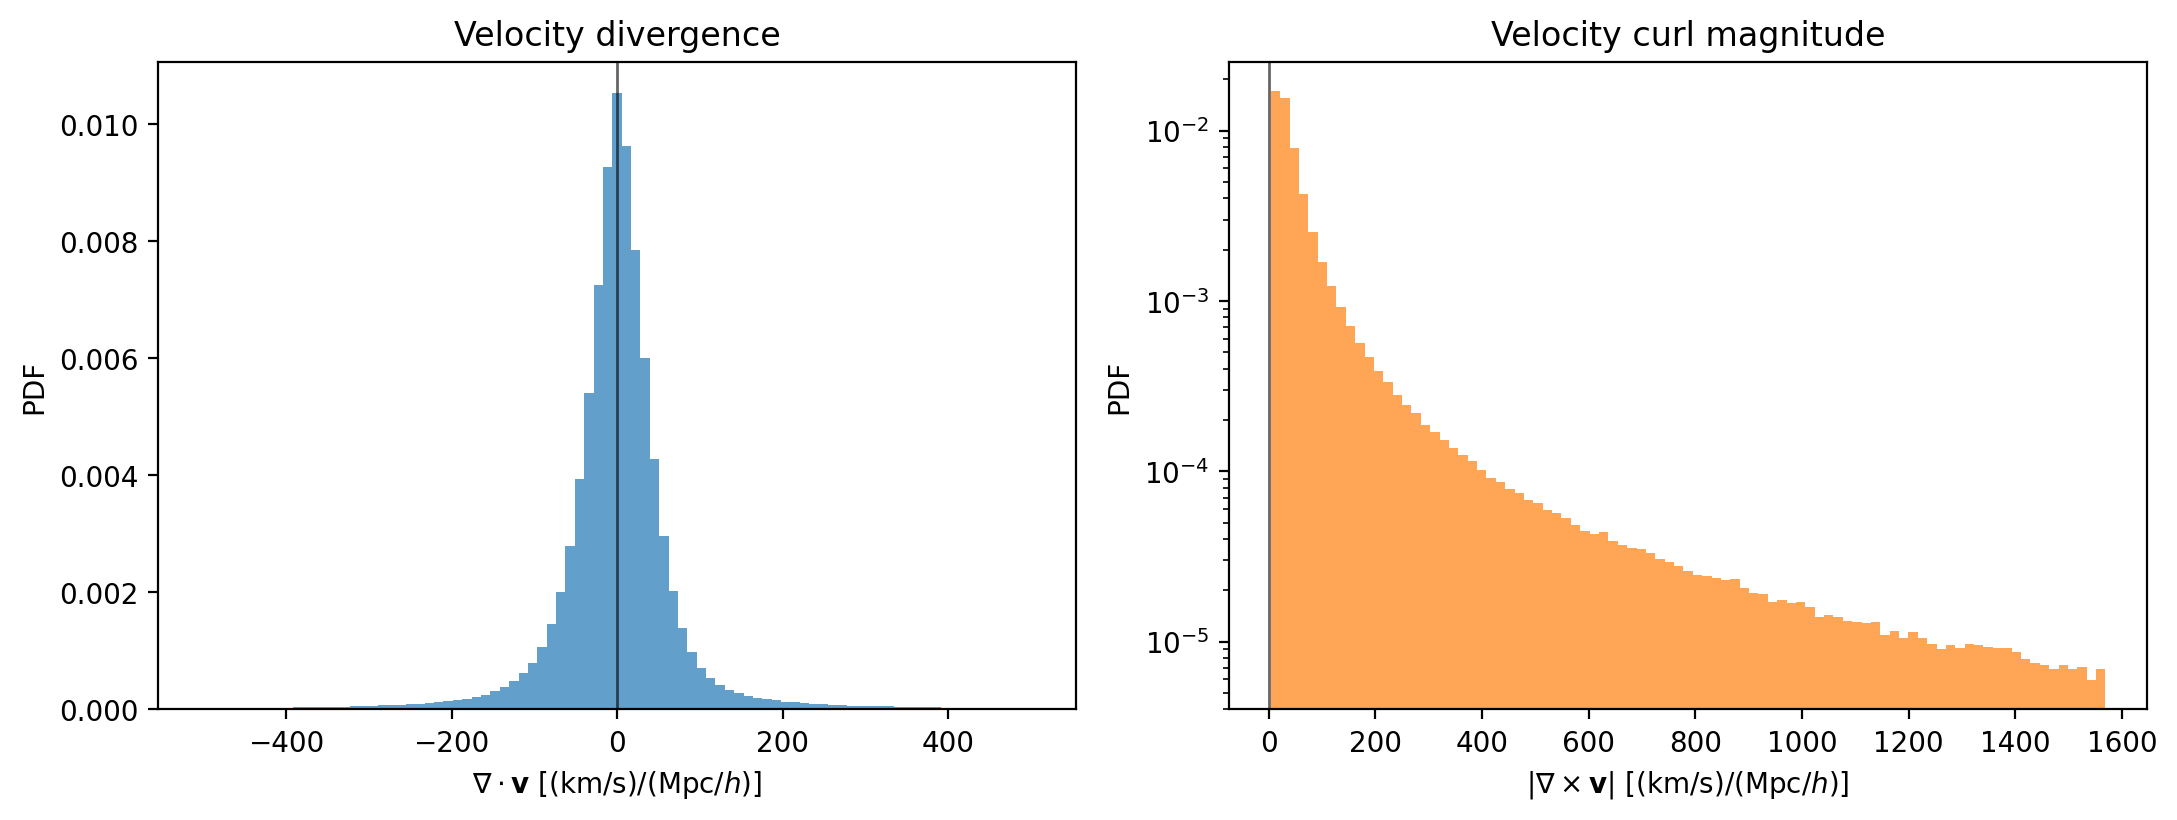
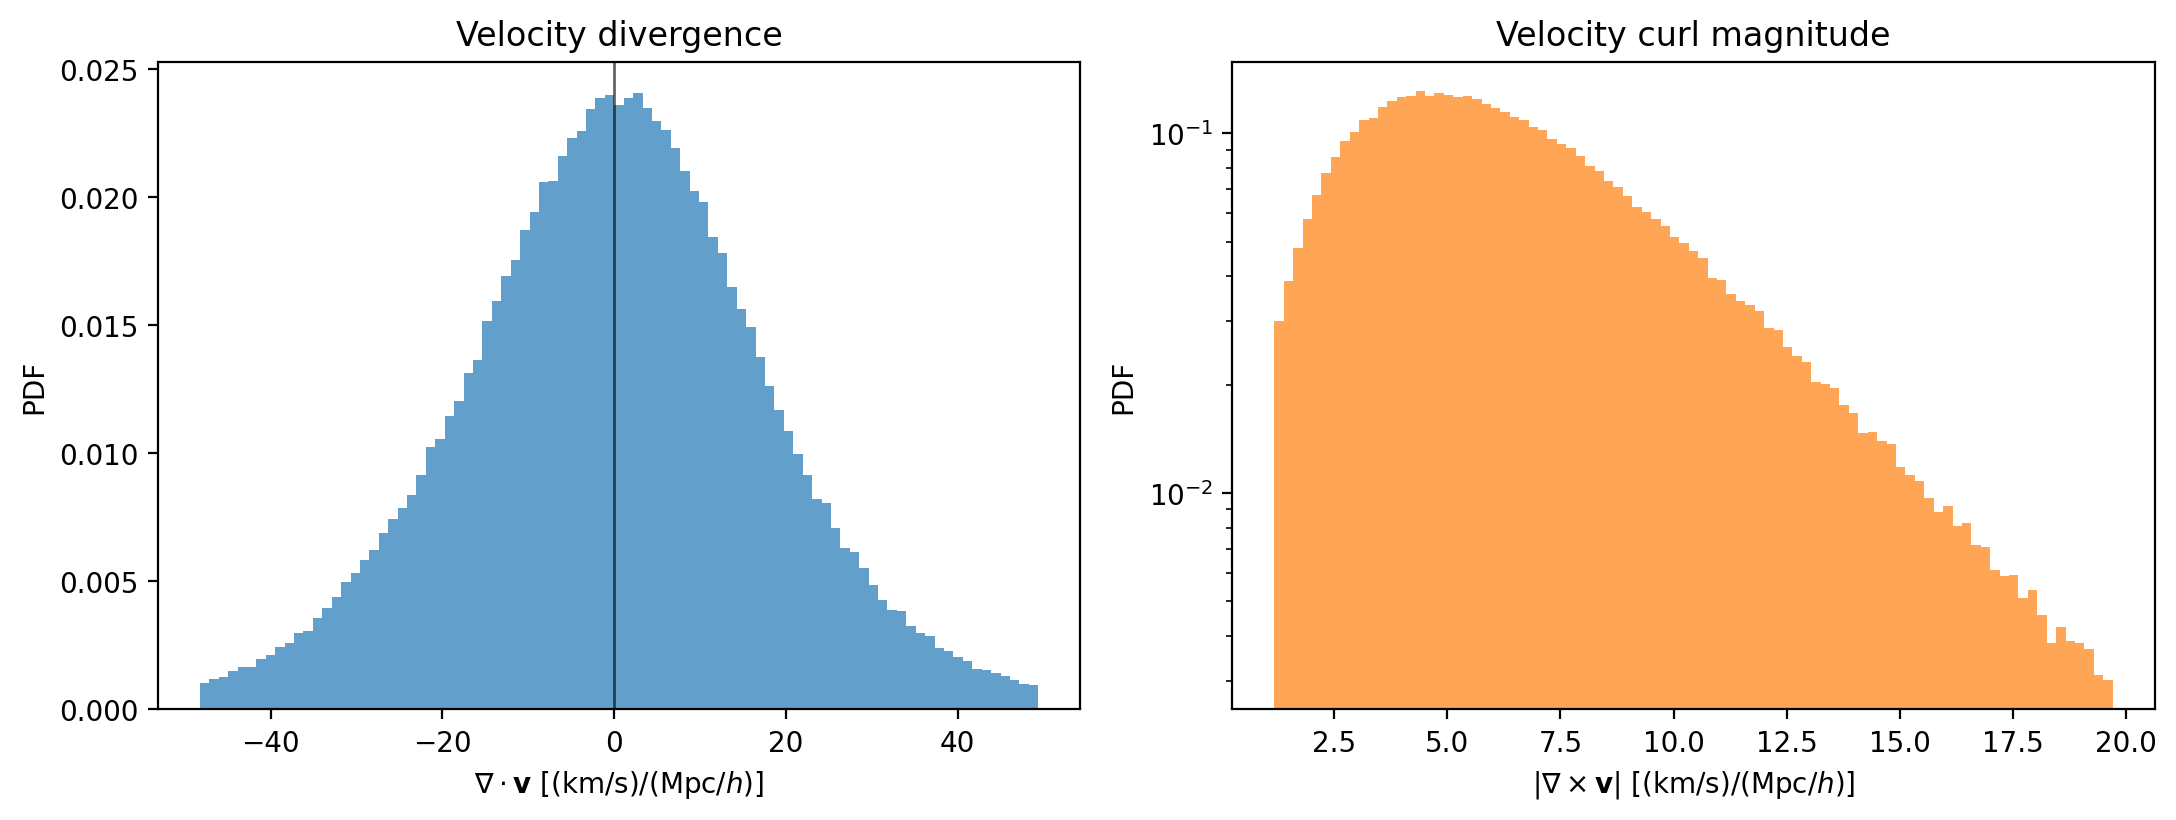
Add weighted velocity divergence slice image to documentation

diff --git a/pyhermes/utils/window_functions.py b/pyhermes/utils/window_functions.py
@@ -278,22 +278,6 @@ def window_function_cylinder_numba(ki, kj, kk, R, H, nx=0.0, ny=0.0, nz=1.0):
 
 # Special-purpose windows.
 @njit
-def window_function_gauss_derivative_wavalet_numba(ki, kj, kk, R):
-    """
-    Gaussian-derivative wavelet window in k-space.
-
-    Let k = sqrt(ki^2 + kj^2 + kk^2), q = 2*pi*k*R, and
-    A(R) = 2^(7/4) / sqrt(15) * (2*pi)^(3/4) * R^(3/2).
-    W(k; R) = A(R) * q^2 * exp(-q^2 / 2).
-    """
-    k = np.sqrt(ki**2 + kj**2 + kk**2)
-    q = 2 * np.pi * k * R
-    norm = 2 ** (7 / 4) / np.sqrt(15) * (2 * np.pi) ** (3 / 4) * R ** (3 / 2)
-    result = norm * q**2 * np.exp(-(q**2) / 2)
-    return result
-
-
-@njit
 def window_function_directional_derivative_numba(ki, kj, kk, nx=0.0, ny=0.0, nz=1.0):
     """
     Directional derivative window in k-space.
@@ -331,6 +315,22 @@ def window_function_laplacian_numba(ki, kj, kk):
     return -((2.0 * np.pi) ** 2) * k2
 
 
+@njit
+def window_function_gauss_derivative_wavalet_numba(ki, kj, kk, R):
+    """
+    Gaussian-derivative wavelet window in k-space.
+
+    Let k = sqrt(ki^2 + kj^2 + kk^2), q = 2*pi*k*R, and
+    A(R) = 2^(7/4) / sqrt(15) * (2*pi)^(3/4) * R^(3/2).
+    W(k; R) = A(R) * q^2 * exp(-q^2 / 2).
+    """
+    k = np.sqrt(ki**2 + kj**2 + kk**2)
+    q = 2 * np.pi * k * R
+    norm = 2 ** (7 / 4) / np.sqrt(15) * (2 * np.pi) ** (3 / 4) * R ** (3 / 2)
+    result = norm * q**2 * np.exp(-(q**2) / 2)
+    return result
+
+
 WINDOW_TYPE_DICT = {
     "sphere": window_function_sphere_numba,
     "gaussian": window_function_gauss_numba,
@@ -341,9 +341,9 @@ WINDOW_TYPE_DICT = {
     "disk": window_function_disk_numba,
     "cylshell": window_function_cylshell_numba,
     "cylinder": window_function_cylinder_numba,
-    "gaussian_derivative_wavalet": window_function_gauss_derivative_wavalet_numba,
     "directional_derivative": window_function_directional_derivative_numba,
     "laplacian": window_function_laplacian_numba,
+    "gaussian_derivative_wavalet": window_function_gauss_derivative_wavalet_numba,
 }
 
 

diff --git a/docs/get_start/weighted_fields/weighted_fields.rst b/docs/get_start/weighted_fields/weighted_fields.rst
@@ -24,45 +24,64 @@ can be reused for several related fields:
 - mass and mass-times-velocity weights produce halo mass-density and
   momentum-density fields
 
-It then visualizes a random-point velocity slice, samples the velocity field on
-an independent regular grid, computes velocity divergence and curl, and compares
-the velocity-divergence distribution with the normalized momentum-density
-divergence.
+It then visualizes the velocity field on a two-dimensional slice, computes
+velocity and momentum-density derivatives with directional-derivative windows,
+and uses a finite-difference grid only as a reference check.
 
 Example outputs
 ---------------
 
-The random-point slice gives a direct visual check of the interpolated velocity
-field before taking derivatives.
+The first slice combines two pieces of information. The arrows show the
+transverse velocity estimated at random points, while the colored background
+shows the velocity divergence computed with derivative windows on the same
+``z`` slice.
 
-.. figure:: ../../_static/weighted_fields/weighted_fields_velocity_slice.png
-   :alt: Random-point velocity slice from weighted_fields.ipynb
+.. figure:: ../../_static/weighted_fields/weighted_fields_velocity_divergence_slice.png
+   :alt: Velocity divergence slice with transverse velocity arrows
    :align: center
    :width: 95%
 
-   Random-point velocity slice. Point colors show velocity magnitude and arrows
-   show the transverse velocity direction.
+   Velocity-divergence slice with transverse velocity arrows. This plot gives a
+   spatial check of the reconstructed velocity field and its large-scale
+   compression or expansion pattern.
 
-Sampling the velocity field on an independent regular grid makes it possible to
-estimate divergence and curl with periodic finite differences.
+The velocity derivatives are then measured directly from the weighted
+``ConvolsData`` objects by applying directional-derivative windows. This avoids
+requiring a regular evaluation grid for the main derivative estimate.
 
 .. figure:: ../../_static/weighted_fields/weighted_fields_velocity_derivatives_pdf.png
    :alt: Velocity divergence and curl magnitude PDFs
    :align: center
    :width: 95%
 
-   PDFs of the velocity divergence and curl magnitude measured from the regular
-   evaluation grid.
+   PDFs of the velocity divergence and curl magnitude from the
+   derivative-window method.
 
-Finally, the notebook compares the velocity divergence to the momentum-density
-divergence after normalizing the latter by the mean halo mass density.
+The same derivative-window machinery applies to the momentum-density field
+built from mass-times-velocity weights. The divergence and curl are normalized
+by the mean halo mass density so their units match the velocity-gradient scale.
 
-.. figure:: ../../_static/weighted_fields/weighted_fields_velocity_momentum_divergence_pdf.png
-   :alt: Velocity divergence and scaled momentum-density divergence PDFs
+.. figure:: ../../_static/weighted_fields/weighted_fields_momentum_derivatives_pdf.png
+   :alt: Scaled momentum-density divergence and curl magnitude PDFs
    :align: center
    :width: 95%
 
-   Velocity-divergence PDF compared with the scaled momentum-density divergence.
+   PDFs of the scaled momentum-density divergence and curl magnitude.
+
+Finally, the notebook samples a subset of the finite-difference grid and
+evaluates the derivative-window result at the same positions. The comparison is
+not the primary estimator; it is a consistency check showing how the
+spectral-window derivative agrees with the grid-based finite-difference
+reference when the same smoothing and density mask are used.
+
+.. figure:: ../../_static/weighted_fields/weighted_fields_derivative_window_comparison.png
+   :alt: Derivative-window and finite-difference divergence comparison
+   :align: center
+   :width: 95%
+
+   Derivative-window divergence estimates compared with finite-difference
+   estimates at matched grid positions for both velocity and scaled
+   momentum-density fields.
 
 Why it comes last
 -----------------
